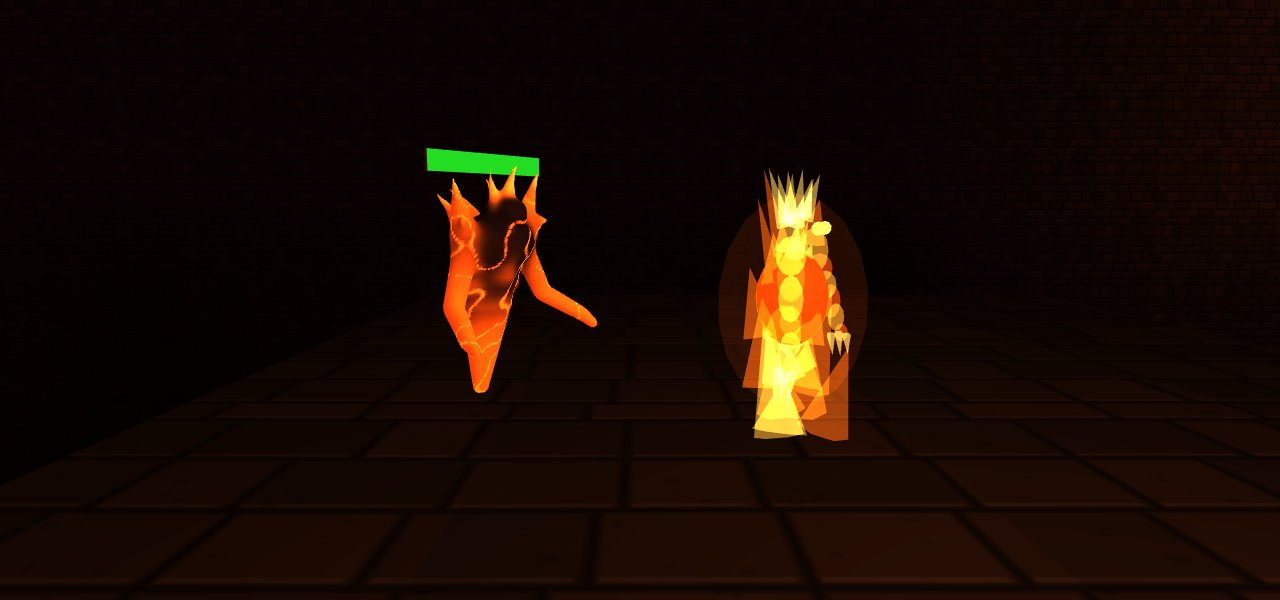
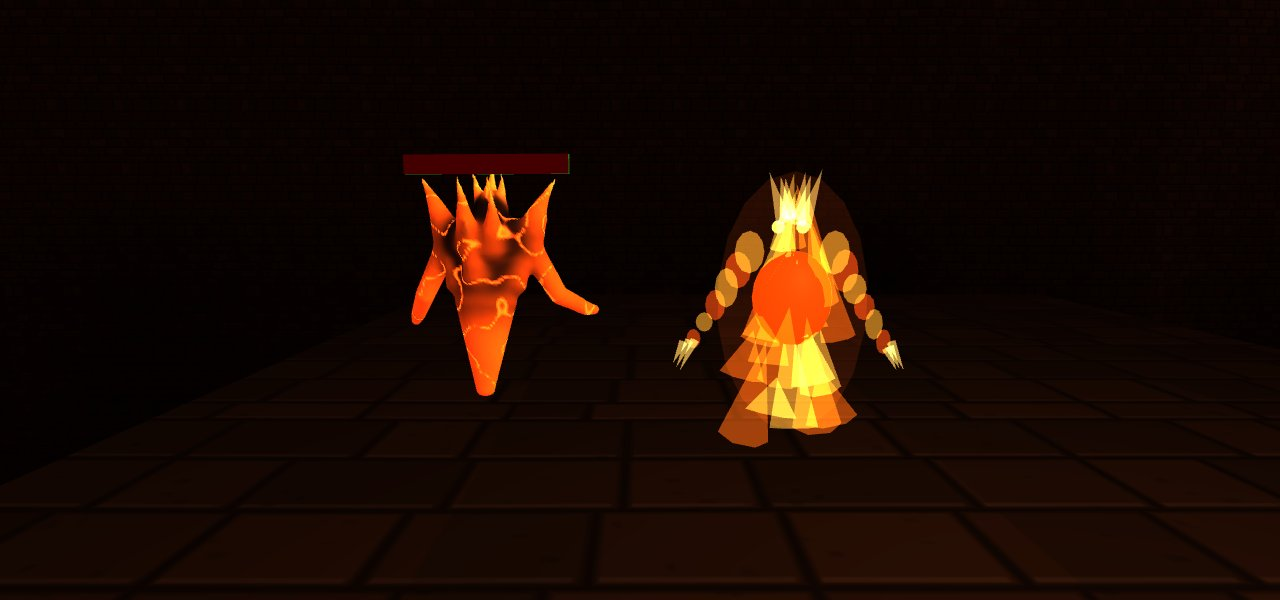
Sessions 1590–1592: #897's three sessions renumbered from 1586–1588
The systems builder's Sessions 1586–1588 landed first and left #897 in
conflict on the devlog; the code is carried unchanged but for its numbers.

Claude-Session: https://claude.ai/code/session_019eFMMkzBztShcmT3c3MYow

Changed region(s): [[0.5312, 0.27, 0.7188, 0.75], [0.3125, 0.24, 0.4688, 0.66]]

diff --git a/js/34-creatures.js b/js/34-creatures.js
@@ -1095,12 +1095,12 @@ function hcSeaRig(w,name,key,o){const old=w.m,g=new THREE.Group();g.name=name.to
   return {name,fish:true,e:{mesh:g},w,root,mesh:old,hcKey:key,ph:(w.ph||0)%1,t:0,...o};}
 function hcWhaleRig(w){return hcSeaRig(w,'Whale','whale:'+(HC_WHALE_N++),{rate:[1.6,1.6],axis:0,reach:5});}
 function hcDolphinRig(d,k){return hcSeaRig(d,'Dolphin','dolphin:'+k,{rate:[9,9],axis:0,reach:1});}
-// Session 1587: the dungeon's Slime and Small Slime (56-dungeon-build.js' buildEnemy, S222's glassy blob) wear the kit's `slime` (Session
+// Session 1591: the dungeon's Slime and Small Slime (56-dungeon-build.js' buildEnemy, S222's glassy blob) wear the kit's `slime` (Session
 // 928, OG-041: arched like a wave, holes through it, bones and rubble inside) by the same path, since the old blob has no skeleton either.
 // Its parts but the health bar's planes go into one group, the far level; the lights stay. The kit's body is the old blob's length,
 // centred on it, on the floor (the group's origin), crawling; the old quiver (90-main.js' squash of limbs.body) is copied onto it
 // about the floor, and the wind-up's glow is read off limbs.body (enemyBodyMesh's). Keyed by the foe's id, `slime:<id>`
-// Session 1588: the Fire Elemental (S222's figure of additive flame over a molten core) wears the kit's `fireelemental` (Session 1185,
+// Session 1592: the Fire Elemental (S222's figure of additive flame over a molten core) wears the kit's `fireelemental` (Session 1185,
 // OG-018: a crust of slag cracked and lit, tongues of flame grown out of it, arms of flame, a crown) the same way, standing: fitted by
 // its height (the old crown's top), hovering on the plan's own bob, its tongues licking on the plan's flicker. The old core's own orange
 // (limbs.coreEm) is its glow, not a flash, so only a wind-up's or a parry's colour on it is carried to the kit's crust
@@ -1132,16 +1132,16 @@ function hcFishAttach(rig,C){const tA=performance.now();
   HC_BODY.ms+=performance.now()-tA;HC_BODY.n++;}
 function hcFishPose(rig){const H=rig.hc,e=rig.e,now=performance.now()/1000,dt=rig.t?Math.min(.1,now-rig.t):0;rig.t=now;
   if(e.dead)return;rig.ph+=dt*rig.rate[e.alert?1:0]/(Math.PI*2);HC.pose(H.C,rig.ph);
-  if(rig.crawl&&rig.em0){const q=rig.em0.scale,f=H.f;H.W.scale.set(f*q.x,f*q.y,f*q.z);H.W.position.y=H.y0*q.y;} /* S1587 — the slime's quiver, about the floor */
+  if(rig.crawl&&rig.em0){const q=rig.em0.scale,f=H.f;H.W.scale.set(f*q.x,f*q.y,f*q.z);H.W.position.y=H.y0*q.y;} /* S1591 — the slime's quiver, about the floor */
   // the wind-up's red and the parry's gold, lit on the old body's torso (enemyBodyMesh), on the kit's hide
-  const src=rig.em0||e.limbs&&e.limbs.torso,m=src&&src.material;let em=m&&m.emissive?m.emissive.getHex():0;if(rig.emOwn!=null&&!(e._wind>0||e._parryFlash))em=0; /* S1588 — the elemental's core: its own glow and its ease back to it are not a flash */
+  const src=rig.em0||e.limbs&&e.limbs.torso,m=src&&src.material;let em=m&&m.emissive?m.emissive.getHex():0;if(rig.emOwn!=null&&!(e._wind>0||e._parryFlash))em=0; /* S1592 — the elemental's core: its own glow and its ease back to it are not a flash */
   if(em!==H.em){H.em=em;for(const o of H.hide)for(const x of Array.isArray(o.material)?o.material:[o.material])if(x.emissive)x.emissive.setHex(em);}}
 const _hcM=new THREE.Matrix4();
 function hcTick(now){let best=null,bd=HC_BODY.build;
-  const busy=now-HBODY.last<HBODY.gap||(typeof JOBS!=='undefined'&&JOBS.length&&activeZoneId==='world'&&!(typeof isInterior==='function'&&isInterior())); /* S1586 — as the people's (hbTick): the world's queue only where the world runs it, or no kit body is built in a gate entered with town jobs queued */
+  const busy=now-HBODY.last<HBODY.gap||(typeof JOBS!=='undefined'&&JOBS.length&&activeZoneId==='world'&&!(typeof isInterior==='function'&&isInterior())); /* S1590 — as the people's (hbTick): the world's queue only where the world runs it, or no kit body is built in a gate entered with town jobs queued */
   for(const rig of WOLF_RIGS){if(!rig.hc&&(rig.hcFail||!hcOk(rig)))continue;HC_RIGS.add(rig);}
   if(activeZoneId==='world')for(const e of ZONES.world.enemies)if(e.name==='Shark'&&!e.dead&&!e._hcRig&&e.mesh&&e.mesh._sharkTail)HC_RIGS.add(hcFishRig(e));
-  if(typeof dScene!=='undefined'&&dScene&&scene===dScene)for(const e of ENEMIES)if(e.limbs&&e.limbs.body&&(e.limbs.slime||e.limbs.flames)&&!e.dead&&!e._hcRig&&e.mesh)HC_RIGS.add(e.limbs.slime?hcSlimeRig(e):hcElemRig(e)); /* S1587 — the dungeon's slimes; S1588 — its fire elementals */
+  if(typeof dScene!=='undefined'&&dScene&&scene===dScene)for(const e of ENEMIES)if(e.limbs&&e.limbs.body&&(e.limbs.slime||e.limbs.flames)&&!e.dead&&!e._hcRig&&e.mesh)HC_RIGS.add(e.limbs.slime?hcSlimeRig(e):hcElemRig(e)); /* S1591 — the dungeon's slimes; S1592 — its fire elementals */
   if(activeZoneId==='world'&&typeof WHALES!=='undefined')for(const w of WHALES)if(!w._hcRig&&w.m&&w.m.parent)HC_RIGS.add(hcWhaleRig(w));
   if(activeZoneId==='world'&&typeof LIFE!=='undefined')LIFE.dolphins.forEach((d,k)=>{if(!d._hcRig&&d.m&&d.m.parent)HC_RIGS.add(hcDolphinRig(d,k));});
   for(const rig of HC_RIGS){const g=rig.root.parent;

diff --git a/js/32-people.js b/js/32-people.js
@@ -1812,7 +1812,7 @@ function hbBuildStep(now){const J=HBODY.job,rig=J.rig,top=rig.foe?rig.root.paren
   if(!r.done)return null;
   HBODY.job=null;rig.hbP=r.value;return rig;}
 function hbTick(now){let best=null,bd=HBODY.build;
-  const busy=now-HBODY.last<HBODY.gap||(typeof JOBS!=='undefined'&&JOBS.length&&activeZoneId==='world'&&!(typeof isInterior==='function'&&isInterior())); /* S1586 — the world's queue holds a body back only where the world runs it (WORLD.tick: the open world, not a room); in a gate its town jobs wait, and every body there waited with them */
+  const busy=now-HBODY.last<HBODY.gap||(typeof JOBS!=='undefined'&&JOBS.length&&activeZoneId==='world'&&!(typeof isInterior==='function'&&isInterior())); /* S1590 — the world's queue holds a body back only where the world runs it (WORLD.tick: the open world, not a room); in a gate its town jobs wait, and every body there waited with them */
   for(const rig of HB_RIGS){const root=rig.root,top=rig.foe?root.parent:root; // a foe's body hangs in its enemy's group (tickPeople)
     if(!root.parent||!top.parent){hbDrop(rig);HB_RIGS.delete(rig);continue;}
     if(top.parent!==scene||!top.visible||!root.visible)continue;

diff --git a/docs/backlog.md b/docs/backlog.md
@@ -549,7 +549,7 @@ Michael marked all 96 images of the intake on the review page: 63 KEEP and 33 NO
 
 ### L4. The gates' foes (with C's gates by school)
 - **Each school's hall and antibodies** (look and systems; OG-018, which draws §9a exactly): Tine forge-hot, Uisce drowned, Cloch fallen masonry, Scáth violet dark, Solas white light, Gaoth open to the sky; occupied gates as goblin warrens. New foes: Magma Slime, Drowned Skeleton, Frost Thing (needs a folk shape under the ice; two plans in the kit, Session 958, `frostshard` and `frostfolk`; Michael's B on DECISION #362, the folk shape, `frostfolk`; ~~its face~~ — done, Session 968: the skeleton's skull inside his head, seen through ice thinned to 0.4 over the face, `faceClear` in the kit; `creatures-frostfolk-head.jpg`, `-front.jpg`; owed: the game, after F4), Wisp and Winged Thing, which fill Gaoth, the school with no foes yet. **The Winged Thing is a plan in the kit, Session 955** (bodies builder; `creatures.js` `wingedthing`, `creatures-wingedthing.jpg`, `-fly.jpg`): a griffin of a big cat's body, an eagle's head and beak, feathered wings and a feathered tail fan, pale storm-grey; ~~eagle's talons for its forefeet~~ — done, Session 960 (`talonFore`, a hind toe on `claws.back`; `creatures-wingedthing-front.jpg`); ~~hooked, not straight~~ — done, Session 970 (`claws.hook` in the kit: each claw arches onto its point, its tip where a straight one's is; `creatures-wingedthing-foot.jpg`, from the bestiary's new `cam=foot`); ~~its folded wing's feathers fanned out sideways from the wrist~~ — done, Session 974 (a quill bone for every flight feather in the kit, turned back along the body when the wing folds, on all nine feathered fliers; `creatures-wingedthing-folded.jpg`, `creatures-craghawk-folded.jpg`, `creatures-duskeagle-folded.jpg`); ~~the folded wing a thin dark line from the side~~ — done, Session 983 (each quill also rolled about its own line so the card leans down over the flank, faces 39 degrees from facing out on average where they were 84; `creatures-wingedthing.jpg` against `creatures-wingedthing-side-before.jpg`); ~~the Dusk Eagle's ragged primaries closing like a whole wing~~ — done, Session 984 (`feathers.ragged` fans the few primaries down the flank when folded, 3.2 degrees between neighbours where the hawks' stack at 0.6; `creatures-duskeagle-perched.jpg`, `creatures-duskeagle-folded.jpg`); owed: the game (after F4). **OG-018's gargoyles are plans, Session 956** (`gargoyle` for Cloch, moss-stained stone, and `gaothgargoyle`, weathered pale, wings a quarter wider; `GARGOYLES`; `creatures-gargoyle.jpg`, `-front.jpg`, `-fly.jpg`, `creatures-gaothgargoyle.jpg`): the goblin's crouched frame in stone, horns, a tail, a stone ridge, bat wings folded up behind the shoulders by `wingRest`; the wings' stone skin drew near black, ~~fixed~~ — done, Session 959 (`wingLight`: a skin wing gives back a share of its colour as light through it; the dragon's too); owed: the game's dormant Gargoyle replaced (after F4). **OG-018's Phantom is a plan in the kit, Session 1428** (bodies builder; `creatures.js` `phantom`, `PHANTOMS`; `creatures-phantom-front.jpg`, `-side.jpg`, `-back.jpg`, `-head.jpg`, `-hover.jpg`): the wraith's legless floating body and claws (Michael's B on #158), its face kept, two hollow sockets with a pale light each and a hollow wailing mouth, five locks of hair streaming down its back, clearer (0.58) and a tenth smaller than the wraith; ~~the Wraith and the Phantom on the kit's bodies in the game~~ — done, Session 1429 (`HC_KINDS`' `legless`, `HC_WRAITH_REST`; `tests/f4wraiths`, `docs/prototypes/f4/f4-wraiths.jpg`).
-- **The classic five, dark** (look builder; OG-041): a skeleton with a notched sword and round shield, a crouched goblin with spear and hide shield, a cave troll whose hide grows moss (a Cloch troll), a slime with bones and rubble inside, a pale giant spider with egg sacs. **The cave troll is a plan in the kit, Session 926** (bodies builder; `creatures.js` `troll`, `creatures-troll.jpg`): a hunched biped, 2.2 m to the crown, moss on its stone-grey hide; OG-018's Tine and Uisce trolls as recolours and a brow on the head, Session 927 (`TROLLS`, `creatures-trolls.jpg`); ~~its lashed-on armour scraps~~ — done, Session 945 (`straps` again: iron plates on the chest and shoulder and a rawhide sheet on the back under three leather lashings, on the OG-041 troll only; `creatures-troll-front.jpg`, `-back.jpg`). **The slime is a plan, Session 928** (`slime`, with OG-018's `magmaslime` for Tine; `SLIMES`): clear, bones and rubble inside; ~~the holes through it~~ — done, Session 954 (`holes` in the kit: three tunnels cut through the flesh from flank to flank, both slimes on a 6 cm grid; `creatures-slime.jpg`, `creatures-magmaslime.jpg`). **The giant spider's thorns and egg sacs, Session 932** (`spider`: thorns up every leg segment, a clutch of silk sacs under the abdomen's tip; `creatures-spider.jpg`, `creatures-spider-back.jpg`). **The goblin is a plan, Session 933** (`goblin`, `GOBLINS`; `creatures-goblin.jpg`, `creatures-goblin-front.jpg`, `creatures-classic.jpg`): the troll's frame at half its height, long ears, a spear and a hide shield (`gear` in the kit, the first gear on a creature); ~~its scrap-leather harness~~ — done, Session 944 (`straps` in the kit: a belt, a sash and a hide shoulder scrap laid 7 mm on the grown skin, each point on the skin's own weights; `creatures-goblin-front.jpg`, `-back.jpg`). **The skeleton is a plan, Session 934** (`skeleton`, `SKELETONS`; `creatures-skeleton.jpg`, `creatures-skeleton-front.jpg`): the kit's first bare body (`bare`: its capsules drawn as bones), ribs and a pelvis, a notched sword and a round wooden shield; ~~its hip rags (cloth on a creature)~~ — done, Session 943 (`rags` in the kit: torn strips on a cord, passing to the thigh bones down their length; `creatures-skeleton-front.jpg`, `-back.jpg`); ~~a truer skull~~ — done, Session 942 (a modelled skull and mandible, 20 teeth, the drowned skeleton's eyes lit in the sockets; `creatures-skeleton-skull*.jpg`); ~~OG-018's drowned skeleton (Uisce)~~ — done, Session 935 (`drownedskeleton`, weed-hung; `creatures-drownedskeleton.jpg`). So all five of OG-041 are plans (`creatures-classic.jpg`). ~~The giant spider in the game~~ — done, Session 1319 (bodies builder; the Spider foe on the kit's `spider` behind the new look, at twice the kit's cell, its eight feet set where its old rig's are; `f4spiders`, `docs/prototypes/f4/f4-spiders.jpg`); ~~the Sand Scorpion (`dunescorpion`)~~ — done, Session 1325 (`f4spiders`, `docs/prototypes/f4/f4-scorpion.jpg`); the Bog Crawler is a plan in the kit, Session 1336 (`bogcrawler`, `CRAWLERS`: a flat oval water bug on four walking legs, the raptorial forelegs as arms with a hooked tibia, `hook` in the kit's arms; `creatures-bogcrawler-*.jpg`); ~~the Bog Crawler in the game~~ — done, Session 1337 (behind the new look on the spider's driver, its forelegs folding with the driver's fang and hook bones, `hcBug`; `f4spiders`, `docs/prototypes/f4/f4-bogcrawler.jpg`): the whole spider family wears the kit. ~~The Faolchú in the game~~ — done, Session 1342 (the boss and its lesser kin on the kit's own `faolchu`, two pairs of arms now, over the Dire Wolf's rig without its hunch, the seam in the phase's colour, cell 0.03: 16,112 triangles, 146 ms; `faolchu`, `docs/prototypes/f4/f4-faolchu.jpg`). ~~The dragon in the game~~ — done, Session 1348 (`f4beasts`). ~~The Skeleton in the game~~ — done, Session 1356 (bodies builder; the kit's `skeleton` on the people's 17-bone driver behind the new look, its first biped: `HC_PMAP`, sized by its stature, the kit's notched sword or a spear by what it was dealt and no shield, its sockets lit; 23 bones, 4,224 triangles, ~30 ms; `f4bones`, `docs/prototypes/f4/f4-skeletons.jpg`). ~~The goblins in the game~~ — done, Session 1364 (the Goblin and the Goblin Slinger on the kit's `goblin`, green, over the people's driver with its own hunch taken off and the ankles held to it, the game's rusted knife or empty hands; cell 0.05: 7,440–7,772 triangles, ~53 ms, baked at the middle level; `f4goblins`, `docs/prototypes/f4/f4-goblins.jpg`). ~~The trolls in the game~~ — done, Session 1378 (the Cave, Forest and Frost Troll on the kit's `troll`, in their kinds' hides, the driver's eye colour, a maul in the kit (`gear` kind `maul`, the troll plan's own), sized by the legs with the ankles held; 23 bones, 12,568–12,916 triangles, ~53 ms, baked at the middle level; `f4trolls`, `docs/prototypes/f4/f4-trolls.jpg`). ~~The Golem in the game~~ — done, Session 1371 (the kit's `golem` on the people's driver, sized by its stature with its ankles held to the driver's, its eyes rune-lit and the driver's rune slits gone with its body; 22 bones, 5,288–5,572 triangles, ~30 ms, baked at the middle level; `f4golems`, `docs/prototypes/f4/f4-golems.jpg`). ~~The Gargoyle in the game~~ — done, Session 1375 (the kit's `gargoyle` on the people's driver behind the new look, sized by its legs with its ankles held at the rest offset, its stone wings folded asleep at the plan's rest and open and beating awake from the driver's fold, `hcGarg`, its tail swaying, its eyes the driver's ember set forward on the muzzle; 58 bones, 7,116–7,276 triangles, ~55 ms, baked at the middle level; `f4gargoyles`, `docs/prototypes/f4/f4-gargoyles.jpg`). ~~The kobolds in the game~~ — done, Session 1379 (the Kobold and the Kobold Thief on the people builder's body behind the new look, not the creature kit's: Michael's B on Session 178 is a small old man, so `HB_FOE_BODY` ages the rolled genome, greys and lengthens its beard and stands it short and thickset, and `HB_FOE_DRESS` hoods and capes it; the weapon kit's new `mattock` in its fist on both looks; 163 bones, 53,800–55,500 triangles; `f4kobolds`, `docs/prototypes/f4/f4-kobolds.jpg`). ~~The Ogre~~ (Session 1386, `f4ogres`) and ~~the Marsh Hag~~ (Session 1389, `f4hags`) on the people builder's body. ~~The Hollowed and the Ghoul in the game~~ — done, Session 1404 (the builder's body behind the new look, its skin rotted by people.js's `rot` (Session 1403) at .7 and 1, barefoot in the grave's drab, the driver's lit eyes laid over the builder's own (`hbEyeGlow`); 58,228–62,187 triangles; `f4dead`, `docs/prototypes/f4/f4-dead.jpg`). Still on the old people's body: the Ash Wight and the ghosts (the Wraith, the Phantom). (Correction, Session 1587: those three have moved since, the Ash Wight in Session 1409 and the ghosts in Session 1429.) ~~The Slime and the Small Slime in the game~~ — done, Session 1587 (bodies builder; the kit's `slime` behind the new look by the shark's driverless path, `hcSlimeRig`: the old blob's length on the floor, crawling, its quiver copied, keyed `slime:<id>`; 6 bones, 6,356 triangles; `f4slimes`, `docs/prototypes/f4/f4-slimes.jpg`). Found on the way, Session 1586: no body (kit or builder) was built in a gate entered with town jobs queued (`hbTick`'s and `hcTick`'s wait on `JOBS`, which only the open world runs), fixed. ~~The Fire Elemental in the game~~ — done, Session 1588 (the kit's `fireelemental` by the same path, `hcDunRig`, fitted by its height, hovering; the core's own glow kept off the crust, only a wind-up or a parry carried; 70 bones, 27,100 triangles; `f4slimes`, `docs/prototypes/f4/f4-elemental.jpg`). Every foe of a gate now wears a kit or builder body on the new look but the Mimic (a chest).
+- **The classic five, dark** (look builder; OG-041): a skeleton with a notched sword and round shield, a crouched goblin with spear and hide shield, a cave troll whose hide grows moss (a Cloch troll), a slime with bones and rubble inside, a pale giant spider with egg sacs. **The cave troll is a plan in the kit, Session 926** (bodies builder; `creatures.js` `troll`, `creatures-troll.jpg`): a hunched biped, 2.2 m to the crown, moss on its stone-grey hide; OG-018's Tine and Uisce trolls as recolours and a brow on the head, Session 927 (`TROLLS`, `creatures-trolls.jpg`); ~~its lashed-on armour scraps~~ — done, Session 945 (`straps` again: iron plates on the chest and shoulder and a rawhide sheet on the back under three leather lashings, on the OG-041 troll only; `creatures-troll-front.jpg`, `-back.jpg`). **The slime is a plan, Session 928** (`slime`, with OG-018's `magmaslime` for Tine; `SLIMES`): clear, bones and rubble inside; ~~the holes through it~~ — done, Session 954 (`holes` in the kit: three tunnels cut through the flesh from flank to flank, both slimes on a 6 cm grid; `creatures-slime.jpg`, `creatures-magmaslime.jpg`). **The giant spider's thorns and egg sacs, Session 932** (`spider`: thorns up every leg segment, a clutch of silk sacs under the abdomen's tip; `creatures-spider.jpg`, `creatures-spider-back.jpg`). **The goblin is a plan, Session 933** (`goblin`, `GOBLINS`; `creatures-goblin.jpg`, `creatures-goblin-front.jpg`, `creatures-classic.jpg`): the troll's frame at half its height, long ears, a spear and a hide shield (`gear` in the kit, the first gear on a creature); ~~its scrap-leather harness~~ — done, Session 944 (`straps` in the kit: a belt, a sash and a hide shoulder scrap laid 7 mm on the grown skin, each point on the skin's own weights; `creatures-goblin-front.jpg`, `-back.jpg`). **The skeleton is a plan, Session 934** (`skeleton`, `SKELETONS`; `creatures-skeleton.jpg`, `creatures-skeleton-front.jpg`): the kit's first bare body (`bare`: its capsules drawn as bones), ribs and a pelvis, a notched sword and a round wooden shield; ~~its hip rags (cloth on a creature)~~ — done, Session 943 (`rags` in the kit: torn strips on a cord, passing to the thigh bones down their length; `creatures-skeleton-front.jpg`, `-back.jpg`); ~~a truer skull~~ — done, Session 942 (a modelled skull and mandible, 20 teeth, the drowned skeleton's eyes lit in the sockets; `creatures-skeleton-skull*.jpg`); ~~OG-018's drowned skeleton (Uisce)~~ — done, Session 935 (`drownedskeleton`, weed-hung; `creatures-drownedskeleton.jpg`). So all five of OG-041 are plans (`creatures-classic.jpg`). ~~The giant spider in the game~~ — done, Session 1319 (bodies builder; the Spider foe on the kit's `spider` behind the new look, at twice the kit's cell, its eight feet set where its old rig's are; `f4spiders`, `docs/prototypes/f4/f4-spiders.jpg`); ~~the Sand Scorpion (`dunescorpion`)~~ — done, Session 1325 (`f4spiders`, `docs/prototypes/f4/f4-scorpion.jpg`); the Bog Crawler is a plan in the kit, Session 1336 (`bogcrawler`, `CRAWLERS`: a flat oval water bug on four walking legs, the raptorial forelegs as arms with a hooked tibia, `hook` in the kit's arms; `creatures-bogcrawler-*.jpg`); ~~the Bog Crawler in the game~~ — done, Session 1337 (behind the new look on the spider's driver, its forelegs folding with the driver's fang and hook bones, `hcBug`; `f4spiders`, `docs/prototypes/f4/f4-bogcrawler.jpg`): the whole spider family wears the kit. ~~The Faolchú in the game~~ — done, Session 1342 (the boss and its lesser kin on the kit's own `faolchu`, two pairs of arms now, over the Dire Wolf's rig without its hunch, the seam in the phase's colour, cell 0.03: 16,112 triangles, 146 ms; `faolchu`, `docs/prototypes/f4/f4-faolchu.jpg`). ~~The dragon in the game~~ — done, Session 1348 (`f4beasts`). ~~The Skeleton in the game~~ — done, Session 1356 (bodies builder; the kit's `skeleton` on the people's 17-bone driver behind the new look, its first biped: `HC_PMAP`, sized by its stature, the kit's notched sword or a spear by what it was dealt and no shield, its sockets lit; 23 bones, 4,224 triangles, ~30 ms; `f4bones`, `docs/prototypes/f4/f4-skeletons.jpg`). ~~The goblins in the game~~ — done, Session 1364 (the Goblin and the Goblin Slinger on the kit's `goblin`, green, over the people's driver with its own hunch taken off and the ankles held to it, the game's rusted knife or empty hands; cell 0.05: 7,440–7,772 triangles, ~53 ms, baked at the middle level; `f4goblins`, `docs/prototypes/f4/f4-goblins.jpg`). ~~The trolls in the game~~ — done, Session 1378 (the Cave, Forest and Frost Troll on the kit's `troll`, in their kinds' hides, the driver's eye colour, a maul in the kit (`gear` kind `maul`, the troll plan's own), sized by the legs with the ankles held; 23 bones, 12,568–12,916 triangles, ~53 ms, baked at the middle level; `f4trolls`, `docs/prototypes/f4/f4-trolls.jpg`). ~~The Golem in the game~~ — done, Session 1371 (the kit's `golem` on the people's driver, sized by its stature with its ankles held to the driver's, its eyes rune-lit and the driver's rune slits gone with its body; 22 bones, 5,288–5,572 triangles, ~30 ms, baked at the middle level; `f4golems`, `docs/prototypes/f4/f4-golems.jpg`). ~~The Gargoyle in the game~~ — done, Session 1375 (the kit's `gargoyle` on the people's driver behind the new look, sized by its legs with its ankles held at the rest offset, its stone wings folded asleep at the plan's rest and open and beating awake from the driver's fold, `hcGarg`, its tail swaying, its eyes the driver's ember set forward on the muzzle; 58 bones, 7,116–7,276 triangles, ~55 ms, baked at the middle level; `f4gargoyles`, `docs/prototypes/f4/f4-gargoyles.jpg`). ~~The kobolds in the game~~ — done, Session 1379 (the Kobold and the Kobold Thief on the people builder's body behind the new look, not the creature kit's: Michael's B on Session 178 is a small old man, so `HB_FOE_BODY` ages the rolled genome, greys and lengthens its beard and stands it short and thickset, and `HB_FOE_DRESS` hoods and capes it; the weapon kit's new `mattock` in its fist on both looks; 163 bones, 53,800–55,500 triangles; `f4kobolds`, `docs/prototypes/f4/f4-kobolds.jpg`). ~~The Ogre~~ (Session 1386, `f4ogres`) and ~~the Marsh Hag~~ (Session 1389, `f4hags`) on the people builder's body. ~~The Hollowed and the Ghoul in the game~~ — done, Session 1404 (the builder's body behind the new look, its skin rotted by people.js's `rot` (Session 1403) at .7 and 1, barefoot in the grave's drab, the driver's lit eyes laid over the builder's own (`hbEyeGlow`); 58,228–62,187 triangles; `f4dead`, `docs/prototypes/f4/f4-dead.jpg`). Still on the old people's body: the Ash Wight and the ghosts (the Wraith, the Phantom). (Correction, Session 1591: those three have moved since, the Ash Wight in Session 1409 and the ghosts in Session 1429.) ~~The Slime and the Small Slime in the game~~ — done, Session 1591 (bodies builder; the kit's `slime` behind the new look by the shark's driverless path, `hcSlimeRig`: the old blob's length on the floor, crawling, its quiver copied, keyed `slime:<id>`; 6 bones, 6,356 triangles; `f4slimes`, `docs/prototypes/f4/f4-slimes.jpg`). Found on the way, Session 1590: no body (kit or builder) was built in a gate entered with town jobs queued (`hbTick`'s and `hcTick`'s wait on `JOBS`, which only the open world runs), fixed. ~~The Fire Elemental in the game~~ — done, Session 1592 (the kit's `fireelemental` by the same path, `hcDunRig`, fitted by its height, hovering; the core's own glow kept off the crust, only a wind-up or a parry carried; 70 bones, 27,100 triangles; `f4slimes`, `docs/prototypes/f4/f4-elemental.jpg`). Every foe of a gate now wears a kit or builder body on the new look but the Mimic (a chest).
 - **Failing gates change their foes** (look builder; OG-073): one rig per foe with extra limbs and broken anatomy for a failing gate, glow only at the seams. The catastrophic column is a boss tier below the dragon (Michael's 8 B; canon §5). **Solas's failing skeleton is a plan in the kit, Session 1168** (bodies builder; `creatures.js` `failingskeleton`, `FAILING`, `creatures-failingskeleton*.jpg`, `creatures-failing-solas.jpg`): the steady skeleton with two more pairs of arms, bone spurs down the back, three more ribs, and its bones cracked with only the cracks lit white-gold; ~~Gaoth's failing gargoyle~~ — done, Session 1169 (`failinggargoyle`: wings half again the Cloch gargoyle's, a second pair of clawed arms from the shoulder blades, the stone's cracks lit storm blue-white; `creatures-failinggargoyle-*.jpg`); ~~Uisce's failing slime~~ — done, Session 1174 (`failingslime`: a third bigger, pale blue-white, three crests rising off its back and rolling each on its own beat, more of the drowned inside, the veins lit sea-blue; the kit's new `crests` part; `creatures-failingslime-*.jpg`); ~~the steady golem~~ — done, Session 1175 (`golem`, `GOLEMS`: OG-018's mossy Cloch golem, the game's dressed stone, every bone a hewn block, the kit's new `bare.blocks`; `creatures-golem-*.jpg`); ~~Cloch's failing golem~~ — done, Session 1176 (`failinggolem`: doubled into a pair on one rig, two heads and two pairs of arms on a widened chest, the blocks cracked and the cracks lit Cloch's violet; `P.head` takes a `name`, `off` and `yaw`; `creatures-failinggolem-*.jpg`); ~~the steady wraith~~ — done, Session 1177 (`wraith`, `WRAITHS`: OG-018's Scáth wraith as the game's since S555, a hollow hood with two violet slits, no legs, a robe floating clear of the ground torn into tongues, long arms with bone claws; the kit's `hover` gait, `hood`, slit eyes; `creatures-wraith-*.jpg`; ~~its dark oval seen from behind~~ — done, Session 1187: the hood's black cup showed through the clear cowl, now drawn only while the eye is ahead of its opening, `hoodFacing`, `creatures-wraith-back.jpg`); ~~Scáth's failing wraith~~ — done, Session 1178 (`failingwraith`: a second pair of clawed arms from the robe's middle, a second ring of torn cloth and the hem's tongues longer, the seams lit Scáth's violet; `creatures-failingwraith-*.jpg`); ~~the steady fire elemental~~ — done, Session 1185 (`fireelemental`, `ELEMENTALS`: OG-018's Tine elemental as the game's since S222, no legs, a dark slag crust lit only in its cracks over a column of flame, 14 tongues grown from the body with a crown of 4 on the head, licking at rest, arms of flame with lit claws; the kit's crests rooted anywhere, `glow.tones`, `flicker`; `creatures-fireelemental-*.jpg`); ~~Tine's failing form~~ — done, Session 1186 (`failingfireelemental`: the flame clearer and hotter, and through it a skeleton of dark hewn stone, blocks on the spine and neck, stone ribs and hip, a stone skull with its eyes lit, a shaft down every arm; a second pair of flaming arms off the ribs, stone spurs breaking out at the shoulders and back; the kit's `frame`; `creatures-failingfireelemental-*.jpg`), so all six of OG-073's failing forms are plans; ~~a second pair of wings for Gaoth's~~ — done, Session 1191 (`P.wings` takes a `pair`, named into its bones, with its own `rest` and beat `phase`; `failinggargoyle`'s second pair lower on the back, three-fingered, beating out of step; `creatures-failinggargoyle-*.jpg`); owed: the game (after F4).
 - **Corrupted animals by school** (look builder; OG-088): a shape change, never a recolour: a frost bear (Uisce), a crystal-spined boar and a stone troll (Cloch), a stag whose antlers breathe mist (Scáth), a dusk eagle (Gaoth). The gate-born row as silhouettes for gate interiors. Drop the sheet's *mana* and *original inhabitants* lines. **Four are plans in the kit, Session 919** (bodies builder; `creatures.js` `CORRUPTED`, `creatures-corrupted.jpg`): the frost wraith bear (Uisce), the blight boar (Cloch), the stag of shadows (Scáth), the dusk eagle (Gaoth); the frost bear's crown moved to its brow, Session 925; the stone troll (Cloch), Session 926 (`stonetroll`, from the new `troll`); ~~the stag's mist~~ — done, Session 969 (`antlers.mist` in the kit: soft violet puffs rising from every tine, looped on the stride; `creatures-shadowstag.jpg`, `-front.jpg`); ~~the mist rising in the head's frame~~ — done, Session 975 (it rises in the body's up and drifts along the body's back, whatever the head does); owed: the game (after F4).
 

diff --git a/docs/devlog/1590.md b/docs/devlog/1590.md
@@ -1,5 +1,6 @@
-## v80 — Session 1586 — Bodies in a gate no longer wait for the town's jobs
-Found on the way to Session 1587. No freeze was open, the last bodies run had landed (#892), and section I holds nothing for this lane.
+## v80 — Session 1590 — Bodies in a gate no longer wait for the town's jobs
+*Renumbered from Session 1586 (Session 1590): the systems builder's Sessions 1586–1588 landed first and left #897 in conflict on the devlog, so #897 is closed and its three sessions are carried here unchanged but for their numbers.*
+Found on the way to Session 1591. No freeze was open, the last bodies run had landed (#892), and section I holds nothing for this lane.
 
 **What was wrong.** Both builders, the people's (`hbTick`, `32-people.js`) and the creature kit's (`hcTick`, `34-creatures.js`), hold a
 body back while the world's job queue (`JOBS`, `81-world-cells.js`) has work in it, so that a body is never built in a frame that is
@@ -14,8 +15,8 @@ same line in both files. Nothing else moved: in the open world the rule is as it
 ### Verified (headless Chromium, new look)
 - A throwaway check in an undead gate (seed 11): with the change, the gate's kit bodies build one at a time over the following frames,
   as in the open world. Before it, 0 of 14 built while the queue held three jobs.
-- `f4slimes` (Session 1587) builds its slime with a job pushed onto the queue for the whole build: 7 jobs queued, built in 6 ticks.
-- `f4bones`, `f4people`, `f4sharks`, `slimes`, `slimesplit`: see Session 1587's entry, run once for both.
+- `f4slimes` (Session 1591) builds its slime with a job pushed onto the queue for the whole build: 7 jobs queued, built in 6 ticks.
+- `f4bones`, `f4people`, `f4sharks`, `slimes`, `slimesplit`: see Session 1591's entry, run once for both.
 
 ### Needs eyes
 - None beyond play. In a gate entered from a town, the foes nearest you should now change to their kit bodies within a few seconds,

diff --git a/docs/devlog/1592.md b/docs/devlog/1592.md
@@ -1,12 +1,13 @@
-## v80 — Session 1588 — The Fire Elemental wears the kit's fire elemental (card F4, new look)
-The same run as Sessions 1586–1587. Session 1587 named the Fire Elemental as the last kit plan in a gate still on its old body. Its plan
+## v80 — Session 1592 — The Fire Elemental wears the kit's fire elemental (card F4, new look)
+*Renumbered from Session 1588.*
+The same run as Sessions 1590–1591. Session 1591 named the Fire Elemental as the last kit plan in a gate still on its old body. Its plan
 is Session 1185's, from OG-018 (kept): a crust of slag cracked all over, the cracks lit forge-orange, tongues of flame grown out of the
 shoulders, flanks, chest and back, a crown of them on the head, arms of flame with lit claws. It hovers on its own bob, and the tongues
 lick on the plan's flicker (8 beats a cycle, 0.16 rad), going or not.
 
 **What changed** (`js/34-creatures.js` only). The old figure (S222, Michael's B on S214) is additive flames over a molten core, with no
 bones, so it takes the slime's path, made general:
-- `hcDunRig(e,name,o)` is Session 1587's `hcSlimeRig` with the kind as an argument. It moves the foe's meshes into one group (the far
+- `hcDunRig(e,name,o)` is Session 1591's `hcSlimeRig` with the kind as an argument. It moves the foe's meshes into one group (the far
   level), keeps the health bar's planes and the lights, and keys the genome `<kind>:<id>`. `hcSlimeRig` and the new `hcElemRig` call it.
   `hcTick` finds a gate's fire elementals by their `limbs.flames`, as it finds slimes by `limbs.slime`.
 - `HC_KINDS['Fire Elemental']` names the plan `fireelemental`. A standing kind (`tall`) is fitted by height: its top is the old crown's

diff --git a/docs/devlog/1587.md b/docs/devlog/1587.md
@@ -1,14 +1,5 @@
-<<<<<<< HEAD
 ## v80 — Session 1587 — Magic B: the guild's forms, the tutor, the books
 *Renumbered from Session 1583 (Session 1588): the bodies builder's Sessions 1582–1583 landed first.*
-=======
-## v80 — Session 1587 — The Slime wears the kit's slime (card F4, new look)
-The producer's next for this lane was L3's peaceful animals, which still wait on a spawn (the systems builder's). Michael's #272 styles
-are all refined once, and #274's arms were held in Sessions 1434–1435. So this run took the creature kit's owed items in the game. Of
-the foes a gate holds, the Slime, the Small Slime and the Fire Elemental were the last with a plan in the kit still on their old bodies
-(the Mimic is a chest; the Shieldbearer is a person, on the builder's body). The Slime is first. Its plan is Session 928's, from OG-041 (kept): arched like a
-wave, three holes through it, a skull, five bones and seven stones inside, clear at 0.55.
->>>>>>> 0c4f7732 (Session 1588: the Fire Elemental wears the kit's fire elemental (card F4, new look))
 
 The second slice of magic B's session 2 (`magic-build.md`, "Where the words are"; the sheet's `wordguild`). The Mages' Guild sold
 Learn and Deepen for 60 to 1,400 gold, capped at Comprehension. The sheet ends spell sales: the guild teaches the forms and never a word.

diff --git a/docs/devlog/1591.md b/docs/devlog/1591.md
@@ -1,4 +1,5 @@
-## v80 — Session 1587 — The Slime wears the kit's slime (card F4, new look)
+## v80 — Session 1591 — The Slime wears the kit's slime (card F4, new look)
+*Renumbered from Session 1587.*
 The producer's next for this lane was L3's peaceful animals, which still wait on a spawn (the systems builder's). Michael's #272 styles
 are all refined once, and #274's arms were held in Sessions 1434–1435. So this run took the creature kit's owed items in the game. Of
 the foes a gate holds, the Slime, the Small Slime and the Fire Elemental were the last with a plan in the kit still on their old bodies
@@ -22,7 +23,7 @@ quivers it by scaling `limbs.body`. That is the shark's case (Session 1529): not
 The body is 6 bones and 6,356 triangles at the kit's 6 cm cell, 16 meshes near (the hide and the swallowed bones and stones), 7 at the
 middle level, and the old blob past 40 m. No rule was touched.
 
-This needed Session 1586's fix: before it, no kit body was ever built in a gate entered with town jobs queued.
+This needed Session 1590's fix: before it, no kit body was ever built in a gate entered with town jobs queued.
 
 ### Verified (headless Chromium, new look)
 - `f4slimes` (new; picks itself on this PR), 9 checks, in an elemental gate (seed 5) with two slimes:
